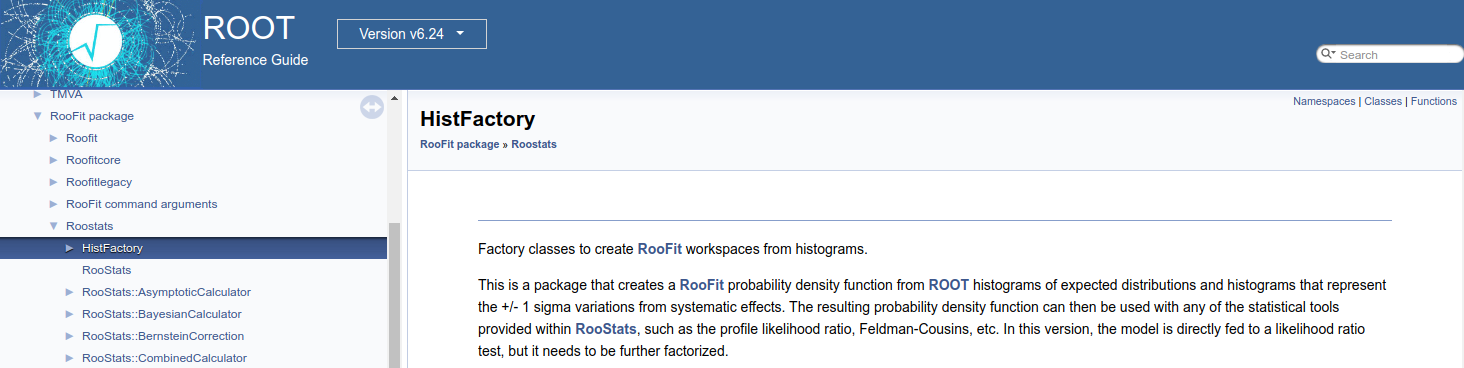
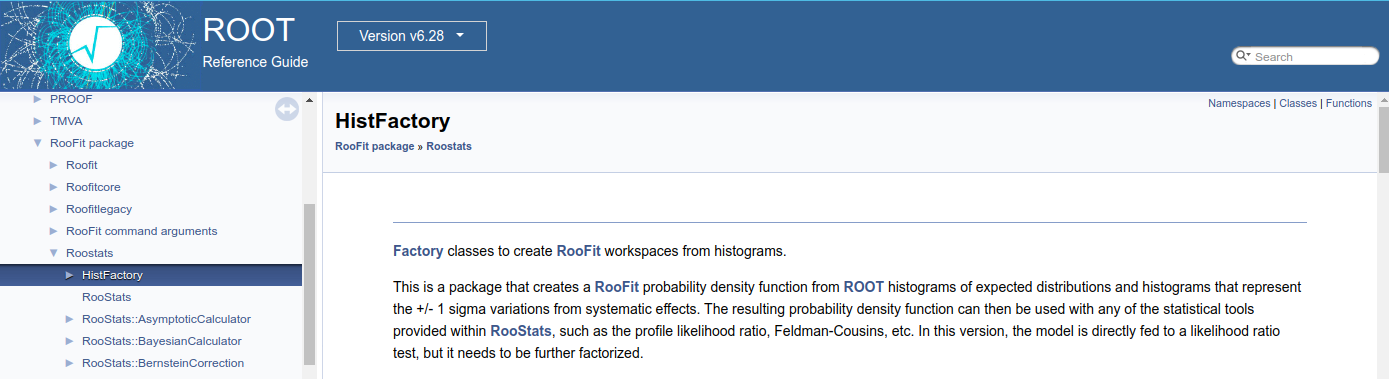
Add ICHEP 2022 updates

diff --git a/talk.md b/talk.md
@@ -190,29 +190,28 @@ $$
 .center[.bold[This is a _mathematical_ representation!] Nowhere is any software spec defined]
 .center[.bold[Until 2018] the only implementation of HistFactory has been in [`ROOT`](https://root.cern.ch/)]
 
-.center.width-70[[![ROOT_HistFactory](figures/ROOT_HistFactory.png)](https://root.cern/doc/v624/group__HistFactory.html)]
-
+.center.width-70[[![ROOT_HistFactory](figures/ROOT_HistFactory.png)](https://root.cern/doc/v628/group__HistFactory.html)]
 
 ---
 # `pyhf`: HistFactory in pure Python
 <!--  -->
-.kol-1-2[
+.kol-1-2.large[
 - First non-ROOT implementation of the HistFactory p.d.f. template
-   - .width-40[[![DOI](https://zenodo.org/badge/DOI/10.5281/zenodo.1169739.svg)](https://doi.org/10.5281/zenodo.1169739)]
+   - .width-40[[![DOI](figures/zenodo.1169739.svg)](https://doi.org/10.5281/zenodo.1169739)]
 - pure-Python library as second implementation of HistFactory
   - [`$ python -m pip install pyhf`](https://scikit-hep.org/pyhf/installation.html#install-from-pypi)
   - No dependence on ROOT!
+
+.center.width-100[[![pyhf_PyPI](figures/pyhf_PyPI.png)](https://pypi.org/project/pyhf/)]
+]
+.kol-1-2.large[
 - Open source tool for all of HEP
    - [IRIS-HEP](https://iris-hep.org/projects/pyhf.html) supported Scikit-HEP project
-   - Used in ATLAS SUSY, Exotics, and Top groups in [24 published analyses](https://scikit-hep.org/pyhf/citations.html#published-statistical-models)
-   - Used by Belle II (DOI: [10.1103/PhysRevLett.127.181802](https://inspirehep.net/literature/1860766))
-   - Used for reinterpretation in phenomenology paper (DOI: [10.1007/JHEP04(2019)144](https://inspirehep.net/record/1698425)) and `SModelS` <br>(DOI: [10.1016/j.cpc.2021.107909](https://inspirehep.net/literature/1814793))
-   - Keen to make a bridge to CMS!
-]
-.kol-1-2[
-<br><br>
-.center.width-100[[![pyhf_PyPI](figures/pyhf_PyPI.png)](https://pypi.org/project/pyhf/)]
-.center.width-60[[![pyhf_logo](https://iris-hep.org/assets/logos/pyhf-logo.png)](https://scikit-hep.org/pyhf/)]
+   - Used in ATLAS SUSY, Exotics, and Top groups in [24 published analyses](https://scikit-hep.org/pyhf/citations.html#published-statistical-models) (inference and published models)
+   - Used by Belle II<br>(DOI: [10.1103/PhysRevLett.127.181802](https://inspirehep.net/literature/1860766))
+   - Used in [analyses and for reinterpretation](https://scikit-hep.org/pyhf/citations.html#use-citations) by phenomenology community, `SModelS` <br>(DOI: [10.1016/j.cpc.2021.107909](https://inspirehep.net/literature/1814793)), and `MadAnalysis 5` ([arXiv:2206.14870](https://inspirehep.net/literature/2103971))
+   - Keen to .bold[make a bridge to CMS]!
+   - 2022 [IRIS-HEP supported Fellow](https://iris-hep.org/fellows/peterridolfi.html) worked on conversion support to CMS Combine (See also [Krill's talk today](https://indico.cern.ch/event/1264029/#4-pyhf-combine))
 ]
 
 ---
@@ -225,13 +224,13 @@ $$
 - As huge buy in from industry we benefit for free as these frameworks are .bold[continually improved] by professional software engineers (physicists are not)
 
 .kol-1-2.center[
-.width-90[![scaling_hardware](figures/scaling_hardware_annotated.png)]
+.width-80[![scaling_hardware](figures/scaling_hardware_annotated.png)]
 ]
 .kol-1-2[
-<br>
-- Show hardware acceleration giving .bold[order of magnitude speedup] for some models!
-- Improvements over traditional
-   - 10 hrs to 30 min; 20 min to 10 sec
+- Hardware acceleration giving .bold[order of magnitude speedup] in interpolation for systematics!
+   - does suffer some overhead
+- Noticeable impact for large and complex models
+   - hours to minutes for fits
 ]
 ]
 .kol-1-4.center[
